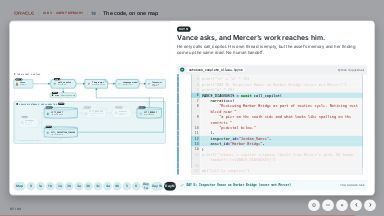
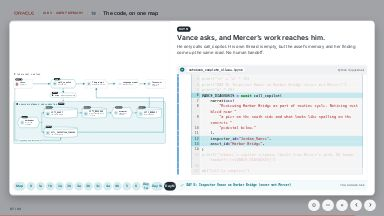
Lab 3 map, Day N: every box is active

Changed region(s): [[0.0625, 0.3611, 0.4375, 0.5833], [0.0625, 0.5833, 0.2188, 0.6667], [0.0312, 0.3611, 0.0938, 0.4167]]

diff --git a/src/content/lab3Map.ts b/src/content/lab3Map.ts
@@ -73,7 +73,7 @@ export const MAP_STEPS: MapStep[] = [
   { title: 'One whole turn', rail: '6', tag: 'PART 6', cam: { s: 1.2, cx: 660, cy: 280 }, ask: 'What does the AI agent actually read?', plain: 'Two lines fetch it: its context card and the similar findings. Then it all goes into one prompt: ask, save.', see: 'TODO 6 passed - copilot ran end-to-end', nodes: ['copilot'], lines: [], code: { cell: 54, from: 'card = await', to: 'similar = find_similar', keys: ['card = await', 'similar = find_similar'], out: 'TODO 6 passed' } },
   { title: 'Day 1, step 1: Mercer asks', rail: 'Day 1a', tag: 'DAY 1', cam: ALL, ask: 'Mercer calls call_copilot for diagnostic help.', plain: 'She types what she sees on Harbor Bridge. The AI agent searches what is already known and reasons about it. Her turn is saved, and the extractor keeps what matters.', see: 'DAY 1, step 1: Mercer calls call_copilot for diagnostic help', who: 'mercer', nodes: ['inspector', 'copilot', 'scope', 'embedder', 'asset', 'message', 'extractor', 'memory', 'prompt', 'model', 'answer'], lines: ['a', 'e', 'f', 'g', 'h'], code: { cell: 57, from: 'MERCER_NOTES = await call_copilot(', to: 'asset_id="Harbor Bridge"', keys: ['MERCER_NOTES = await call_copilot(', 'inspector_id="Evelyn_H_Mercer"', 'asset_id="Harbor Bridge"'], out: 'Mercer' } },
   { title: 'Day 1, step 2: Mercer records', rail: 'Day 1b', tag: 'DAY 1', cam: ALL, ask: 'Mercer logs the finding herself.', plain: 'Once she is sure, she signs the finding with log_finding: a separate path, one row in the official record.', see: 'Logged finding fcd664d7-d5d - now searchable by future call_copilot invocations.', who: 'mercer', nodes: ['inspector', 'embedder', 'finding', 'prompt', 'model', 'answer'], lines: ['confirm'], code: { cell: 59, from: 'MERCER_FINDING_ID = log_finding(', to: 'days_ago=0', keys: ['log_finding(', 'category="corrosion"', 'severity="medium"', 'overall_grade="C"'], out: 'Logged finding' } },
-  { title: 'Later: Vance', rail: 'Day N', tag: 'DAY N', cam: ALL, ask: 'Vance asks, and Mercer’s work reaches him.', plain: 'He only calls call_copilot. His own thread is empty, but the asset’s memory and her finding come up the same road. No human handoff.', see: 'DAY N: Inspector Vance on Harbor Bridge (never met Mercer)', who: 'vance', nodes: ['inspector', 'copilot', 'scope', 'prompt', 'model', 'answer', 'memory', 'finding', 'asset'], lines: ['a', 'e', 'read', 'l', 'n', 'b', 'c', 'd'], code: { cell: 64, from: 'VANCE_DIAGNOSIS = await', to: 'asset_id="Harbor Bridge"', keys: ['VANCE_DIAGNOSIS = await', 'inspector_id="Jordan_Vance"', 'asset_id="Harbor Bridge"'], out: 'DAY N:' } },
+  { title: 'Later: Vance', rail: 'Day N', tag: 'DAY N', cam: ALL, ask: 'Vance asks, and Mercer’s work reaches him.', plain: 'He only calls call_copilot. His own thread is empty, but the asset’s memory and her finding come up the same road. No human handoff.', see: 'DAY N: Inspector Vance on Harbor Bridge (never met Mercer)', who: 'vance', lines: ['a', 'e', 'read', 'l', 'n', 'b', 'c', 'd'], code: { cell: 64, from: 'VANCE_DIAGNOSIS = await', to: 'asset_id="Harbor Bridge"', keys: ['VANCE_DIAGNOSIS = await', 'inspector_id="Jordan_Vance"', 'asset_id="Harbor Bridge"'], out: 'DAY N:' } },
 ];
 
 /** a step's name in the page overview: its button and what it is about; the picture steps are told apart by their question */
